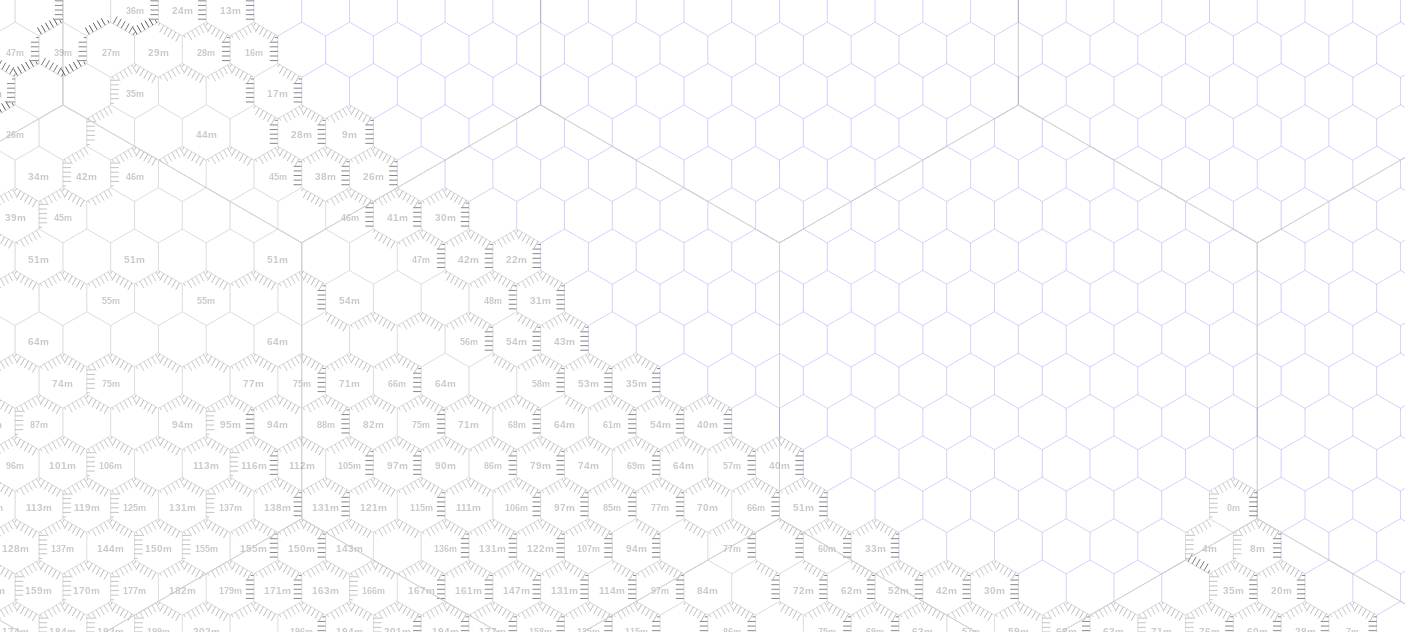
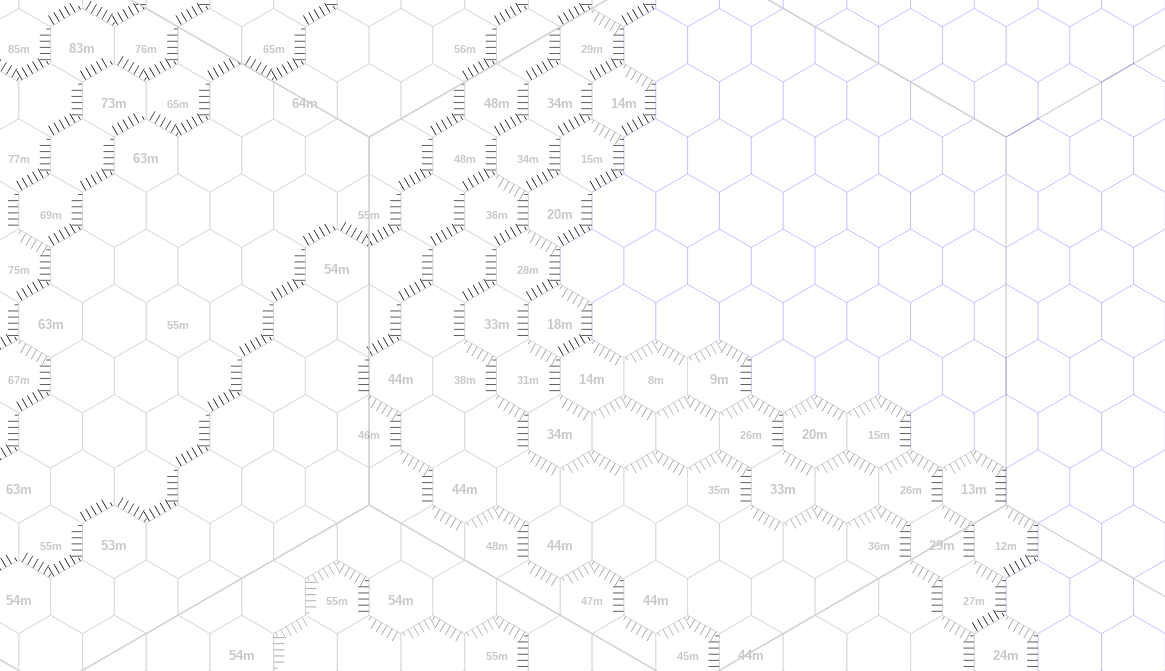
Update seaside, take 2

diff --git a/posts/20201214.md b/posts/20201214.md
@@ -7,7 +7,7 @@ tags: [ 'tool', 'map' ]
 
 <figure class="banner">
 <a href="images/20201214_northwest.png"><img src="images/20201214_northwest.png" loading="lazy" /></a>
-<figcaption>seaside iteration, hex diameter 100m, elevation in meters</figcaption>
+<figcaption style="font-size: 80%">seaside iteration, small hex dia 100m, large hex 1km, elevation in meters</figcaption>
 </figure>
 
 Our campaign is taking place in Dark Ages England. I can fire up Google Maps and have a look at the locations and imagine what they were twelve centuries ago. The woods were perhaps larger, lowlands may have been swamps, that place name hints at what used to be here...
